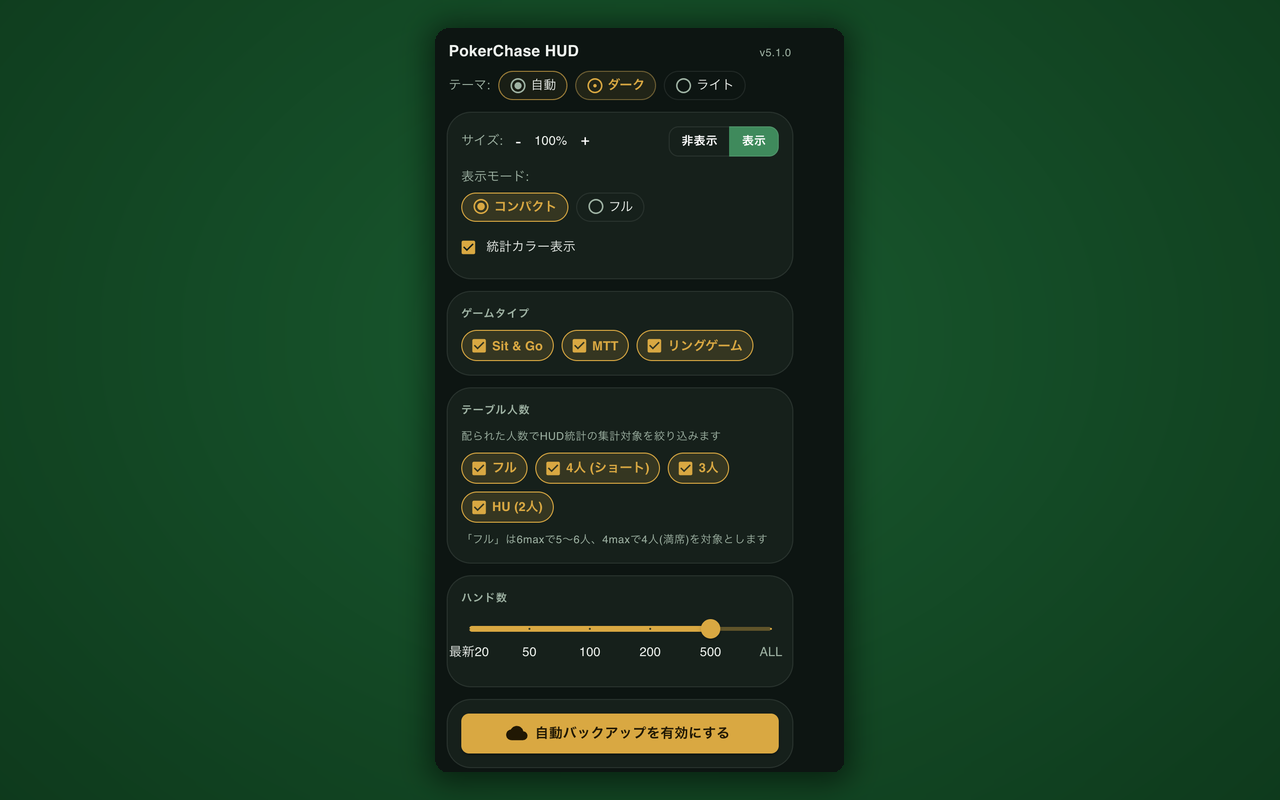
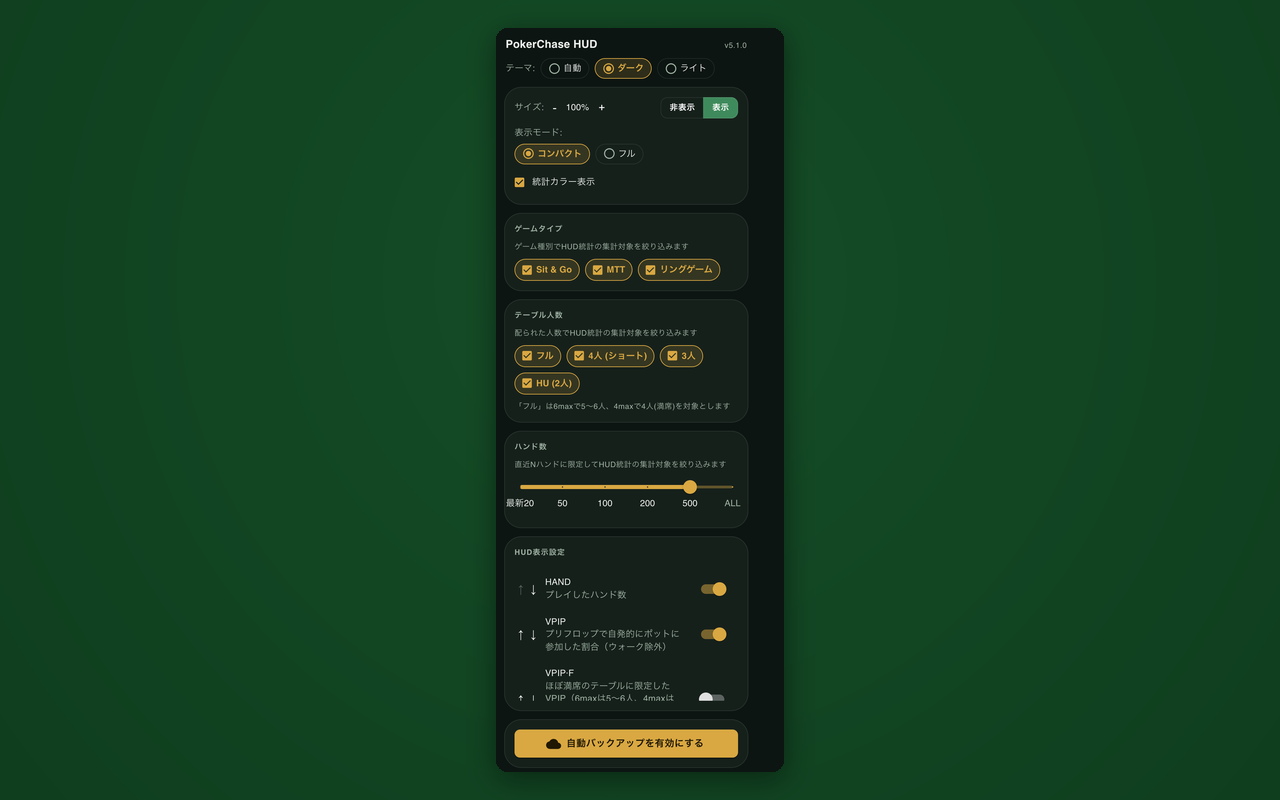
fix(popup): explicit filter captions, intuitive stat descriptions, section reorder (#149)
- Add a matching one-line caption to ゲームタイプ and ハンド数 (テーブル人数
  already had one), all ending in the same "...HUD統計の集計対象を絞り込みます"
  phrasing, so all three read unambiguously as HUD-stat filters.
- Rewrite vpipF's description (was jargon-soup: "HUD独自指標, opt-in") to
  plainly state what it is and why it exists; align its helpText and drop
  the redundant opt-in callout (visible from the toggle itself). Also strip
  the non-explanatory "、意思決定ベースの変種" clause from wtsdNoAi/wwsfNoAi's
  descriptions so they read symmetrically with their wtsd/wwsf siblings.
  Use テーブル (not 卓) throughout.
- Swap Popup.tsx section order: HUD表示設定 (StatisticsConfigSection) now
  renders before クラウド同期/自動バックアップ (FirebaseAuthSection) -- pure
  JSX reorder, no state/logic coupling.
- Regenerate docs/store-assets/store-3-popup-dark.png and
  store-4-popup-light.png to reflect the new captions/order.
- e2e/tools/capture-popup-themes.ts: fix an intermittent truncated
  `fullPage` screenshot (compositor keepalive wiped by reload(), only
  caught by a height-verify+retry loop -- see e2e/README.md "Flaky bits").

Pull request: fix(popup): explicit filter captions, intuitive stat descriptions, section reorder
## Summary

Three popup refinements from sola's review of the shipped redesign (#145):

- **Filters made explicit**: ゲームタイプ and ハンド数 now carry the same one-line caption treatment テーブル人数 already had, with a uniform closing phrase — 「ゲーム種別でHUD統計の集計対象を絞り込みます」 / 「直近Nハンドに限定してHUD統計の集計対象を絞り込みます」.
- **Stat description copy**: VPIP·F rewritten from jargon (「フルテーブル層(6max≥5人 / 4max=4人)に限定したVPIP(ウォーク除外, HUD独自指標, opt-in)」) to plain language — 「ほぼ満席のテーブルに限定したVPIP(6maxは5〜6人、4maxは満席)。少人数テーブルほどVPIPが自然に上がる歪みを除きます」 — with helpText aligned. WTSDa/WWSFa trimmed of the 「意思決定ベースの変種」 tail for symmetry with WTSD/WWSF. All other descriptions audited and already consistent.
- **Section order**: HUD表示設定 now precedes クラウド同期 (pure JSX move).
- **Store assets**: `store-3-popup-dark.png` / `store-4-popup-light.png` regenerated (1280×800, same composition technique as #147) to reflect the new order and captions.
- **Harness robustness (found while capturing)**: `reload()` wiped the #148 compositor keepalive, intermittently truncating fullPage popup captures to viewport height (~50% repro). `ensureCompositorKeepalive` is now exported and re-applied post-reload, with an IHDR-height-verify+retry in the capture tool; documented under e2e/README.md "Flaky bits". Deterministic across repeated runs after the fix.

## Verification

- 748/748 tests ×2 (updated the two tests hardcoding the old vpipF helpText); typecheck clean; smoke 6/6.
[…]

Changed region(s): [[0.3125, 0.0312, 0.6562, 0.9688], [0.5312, 0.7188, 0.5625, 0.75]]

diff --git a/e2e/tools/capture-popup-themes.ts b/e2e/tools/capture-popup-themes.ts
@@ -23,8 +23,9 @@
  * works on any checkout instead of only the workstation that authored this
  * script.
  */
-import { mkdirSync } from 'node:fs'
-import { launchHarness } from '../harness.ts'
+import { mkdirSync, writeFileSync } from 'node:fs'
+import { ensureCompositorKeepalive, launchHarness } from '../harness.ts'
+import type { Page } from 'puppeteer-core'
 
 const OUT_DIR = process.argv[2] ?? new URL('../out/popup-themes/', import.meta.url).pathname
 mkdirSync(OUT_DIR, { recursive: true })
@@ -40,6 +41,37 @@ const openPopupWithRetry = async (h: Awaited<ReturnType<typeof launchHarness>>) 
     }
   }
   throw lastErr
+}
+
+/** Reads a PNG buffer's pixel height straight out of its IHDR chunk (bytes 20-23, big-endian). Avoids pulling in an image-decoding dependency just to sanity-check a screenshot. */
+const pngHeight = (buf: Uint8Array): number =>
+  (buf[20]! << 24) | (buf[21]! << 16) | (buf[22]! << 8) | buf[23]!
+
+/**
+ * `page.screenshot({ fullPage: true })` on this popup page has been observed
+ * to intermittently return a frame sized to the *viewport* (900 CSS px tall)
+ * instead of the full scrollable content (~1350px+) -- same symptom as the
+ * documented compositor-stall class of flakiness (e2e/README.md "Flaky
+ * bits"), just manifesting as a truncated frame instead of a hung capture.
+ * Re-asserting the keepalive alone did not make it fully deterministic in
+ * testing, so this additionally verifies the captured PNG's actual height
+ * against the page's real content height (via CDP `Page.getLayoutMetrics`)
+ * and retries (fresh keepalive re-assert + short wait) until they agree.
+ */
+const screenshotFullPageWithRetry = async (page: Page, maxAttempts = 5): Promise<Uint8Array> => {
+  for (let attempt = 1; attempt <= maxAttempts; attempt++) {
+    await ensureCompositorKeepalive(page)
+    const metrics = await (page as any)._client().send('Page.getLayoutMetrics')
+    const expectedHeightPx = Math.round(metrics.cssContentSize.height * (page.viewport()?.deviceScaleFactor ?? 1))
+    const buf = await page.screenshot({ fullPage: true })
+    const actualHeightPx = pngHeight(buf as Uint8Array)
+    // Small tolerance for rounding; a truncated capture is off by hundreds
+    // of px (an entire section's worth), not a rounding error.
+    if (actualHeightPx >= expectedHeightPx - 4) return buf as Uint8Array
+    console.log(`[capture] retry ${attempt}/${maxAttempts}: screenshot height ${actualHeightPx}px < expected ${expectedHeightPx}px (stale/truncated compositor frame)`)
+    await new Promise((r) => setTimeout(r, 300))
+  }
+  throw new Error(`screenshotFullPageWithRetry: gave up after ${maxAttempts} attempts`)
 }
 
 const capture = async (mode: 'dark' | 'light', label: string) => {
@@ -58,9 +90,12 @@ const capture = async (mode: 'dark' | 'light', label: string) => {
     )
     await popupPage.setViewport({ width: 420, height: 900, deviceScaleFactor: 2 })
     await popupPage.reload({ waitUntil: 'networkidle0' })
-    // Give MUI a beat to finish its first paint/transition-free render.
+    // reload() wipes the anti-stall keepalive that openPopup() injected
+    // pre-reload -- screenshotFullPageWithRetry re-asserts it itself, but
+    // give MUI a beat first to finish its first paint/transition-free render.
     await new Promise((r) => setTimeout(r, 300))
-    await popupPage.screenshot({ path: `${OUT_DIR}/${label}-full.png` as `${string}.png`, fullPage: true })
+    const buf = await screenshotFullPageWithRetry(popupPage)
+    writeFileSync(`${OUT_DIR}/${label}-full.png`, buf)
     console.log(`[capture] wrote ${OUT_DIR}/${label}-full.png`)
   } finally {
     await h.close()

diff --git a/src/components/Popup.tsx b/src/components/Popup.tsx
@@ -476,7 +476,24 @@ const Popup = ({ initialPopupThemeMode }: PopupProps = {}) => {
         />
       </SectionCard>
 
-      {/* Cloud Backup - ハンド数とHUD表示設定の間 */}
+      {/*
+        HUD表示設定（統計の有効/無効・並び順）→ クラウド同期（自動バックアップ）
+        の順（sola要件, 2026-07 popup polish）: 統計フィルタ3セクションの直後に
+        「その統計をどう表示するか」を置き、「その設定をどうバックアップするか」
+        は最後に回す方が読む順として自然、との指摘に対応。状態やロジックの結合は
+        無く、単なるJSX順序の入れ替え。
+      */}
+      <SectionCard>
+        <StatisticsConfigSection
+          pendingStatDisplayConfigs={pendingStatDisplayConfigs}
+          hasUnsavedStatChanges={hasUnsavedStatChanges}
+          handleStatToggle={handleStatToggle}
+          handleStatOrderChange={handleStatOrderChange}
+          handleApplyStatChanges={handleApplyStatChanges}
+          handleResetStatChanges={handleResetStatChanges}
+        />
+      </SectionCard>
+
       <SectionCard>
         <FirebaseAuthSection
           isFirebaseSignedIn={isFirebaseSignedIn}
@@ -487,17 +504,6 @@ const Popup = ({ initialPopupThemeMode }: PopupProps = {}) => {
           handleFirebaseSignOut={handleFirebaseSignOut}
           handleManualSyncUpload={handleManualSyncUpload}
           handleManualSyncDownload={handleManualSyncDownload}
-        />
-      </SectionCard>
-
-      <SectionCard>
-        <StatisticsConfigSection
-          pendingStatDisplayConfigs={pendingStatDisplayConfigs}
-          hasUnsavedStatChanges={hasUnsavedStatChanges}
-          handleStatToggle={handleStatToggle}
-          handleStatOrderChange={handleStatOrderChange}
-          handleApplyStatChanges={handleApplyStatChanges}
-          handleResetStatChanges={handleResetStatChanges}
         />
       </SectionCard>
 

diff --git a/e2e/harness.ts b/e2e/harness.ts
@@ -104,10 +104,19 @@ const findGamePage = async (browser: Browser, fixtureOrigin: string): Promise<Pa
  * before each `screenshot()` so it self-heals across page reloads and
  * `attachHarness` sessions started by an older build. See e2e/README.md
  * "Flaky bits".
+ *
+ * Exported (not just used internally) because a `reload()` wipes the
+ * injected style/div -- any caller that reloads a harness-owned page and
+ * then screenshots it directly (bypassing `screenshot()`'s own re-assert,
+ * e.g. `e2e/tools/capture-popup-themes.ts`, which needs `fullPage: true`
+ * that `screenshot()` doesn't support) must re-call this after the reload
+ * or risk a stale/truncated `fullPage` capture -- observed in practice as
+ * a `fullPage` screenshot silently sized to the viewport instead of the
+ * full scrollHeight, not just the documented hang.
  */
 const COMPOSITOR_KEEPALIVE_ID = '__e2e-compositor-keepalive'
 
-const ensureCompositorKeepalive = async (page: Page): Promise<void> => {
+export const ensureCompositorKeepalive = async (page: Page): Promise<void> => {
   await page.evaluate((id: string) => {
     if (document.getElementById(id)) return
     const style = document.createElement('style')

diff --git a/src/components/popup/GameTypeFilterSection.tsx b/src/components/popup/GameTypeFilterSection.tsx
@@ -1,4 +1,5 @@
 import Box from '@mui/material/Box'
+import Typography from '@mui/material/Typography'
 import type { GameTypeFilter } from '../../types'
 import { SectionHeading } from './SectionHeading'
 import { ToggleChip } from './ToggleChip'
@@ -15,6 +16,15 @@ export const GameTypeFilterSection = ({
   return (
     <>
       <SectionHeading>ゲームタイプ</SectionHeading>
+      {/*
+        テーブル人数/ハンド数と並ぶ3つのHUD統計フィルタの1つであることを
+        明示する常時表示キャプション。「これはフィルタだ」と気づけない、
+        との指摘(sola, PR #145レビュー)への対応。他2セクションのキャプションと
+        文末（HUD統計の集計対象を絞り込みます）を揃えて統一感を出す。
+      */}
+      <Typography variant="caption" sx={{ display: 'block', color: 'text.secondary', mb: 1 }}>
+        ゲーム種別でHUD統計の集計対象を絞り込みます
+      </Typography>
       <Box sx={{ display: 'flex', flexWrap: 'wrap', gap: 1 }}>
         <ToggleChip
           checked={gameTypeFilter.sng}

diff --git a/src/stats/core/vpip-full.ts b/src/stats/core/vpip-full.ts
@@ -117,8 +117,14 @@ function formatLayerBreakdown(playerId: number, actions: Action[], hands: Hand[]
 export const vpipFullStat: StatDefinition = {
   id: 'vpipF',
   name: 'VPIP·F',
-  description: 'フルテーブル層（6max≥5人 / 4max=4人）に限定したVPIP（ウォーク除外, HUD独自指標, opt-in）',
-  helpText: '全員着席した卓に限定したVPIP。卓が縮小するほどVPIPは自然に上がるため、比較しやすいよう絞った指標(HUD独自指標)',
+  // description/helpTextの文言(2026-07, popup polish): 旧説明文
+  // 「フルテーブル層（6max≥5人 / 4max=4人）に限定したVPIP（ウォーク除外,
+  // HUD独自指標, opt-in）」はsolaレビューで「直感的でない」と指摘された
+  // (opt-inかどうかはトグル自体で分かるため説明文に書く情報ではない)。
+  // vpip.ts描写の文体（〜割合、パレン内は除外条件のみ）に合わせつつ、
+  // このスタッツ固有の「なぜ存在するか」を平易に書く。
+  description: 'ほぼ満席のテーブルに限定したVPIP（6maxは5〜6人、4maxは満席）。少人数テーブルほどVPIPが自然に上がる歪みを除きます',
+  helpText: '全員着席したテーブルに限定したVPIP。テーブルが縮小するほどVPIPは自然に上がるため、比較しやすいよう絞った指標',
   enabled: false,
   calculate: ({ playerId, actions, hands }) => {
     const { full } = groupHandsByLayer(hands)

diff --git a/src/components/popup/HandLimitSection.tsx b/src/components/popup/HandLimitSection.tsx
@@ -1,5 +1,6 @@
 import Box from '@mui/material/Box'
 import Slider from '@mui/material/Slider'
+import Typography from '@mui/material/Typography'
 import { SectionHeading } from './SectionHeading'
 
 interface HandLimitSectionProps {
@@ -14,6 +15,10 @@ export const HandLimitSection = ({
   return (
     <>
       <SectionHeading>ハンド数</SectionHeading>
+      {/* ゲームタイプ/テーブル人数と同じ理由・同じ文末で「これもフィルタだ」を明示する */}
+      <Typography variant="caption" sx={{ display: 'block', color: 'text.secondary', mb: 1 }}>
+        直近Nハンドに限定してHUD統計の集計対象を絞り込みます
+      </Typography>
       <Box sx={{ px: 1, mt: 1, mb: 0.5 }}>
         <Slider
           value={(() => {

diff --git a/src/stats/core/wtsd-no-ai.ts b/src/stats/core/wtsd-no-ai.ts
@@ -26,7 +26,10 @@ import { formatPercentage } from '../utils'
 export const wtsdNoAiStat: StatDefinition = {
   id: 'wtsdNoAi',
   name: 'WTSDa',
-  description: 'ショーダウン率（プリフロップオールイン除外、意思決定ベースの変種）',
+  // wtsd.ts側の記法「ショーダウン率（フロップ以降、プリフロップオールイン含む）」
+  // と対で読めるよう、括弧内は除外条件のみに揃える(旧文言の「意思決定ベースの
+  // 変種」は説明にならない専門用語だったため削除。由来は上のdocblock参照)。
+  description: 'ショーダウン率（プリフロップオールイン除外）',
   helpText: 'フロップを見た後にショーダウンまで進んだ割合(プリフロップオールイン除外)',
   enabled: false,
   calculate: ({ actions, phases }) => {

diff --git a/src/stats/core/wwsf-no-ai.ts b/src/stats/core/wwsf-no-ai.ts
@@ -18,7 +18,9 @@ import { formatPercentage } from '../utils'
 export const wwsfNoAiStat: StatDefinition = {
   id: 'wwsfNoAi',
   name: 'WWSFa',
-  description: 'フロップ以降の勝率（プリフロップオールイン除外、意思決定ベースの変種）',
+  // wwsf.ts側の記法「フロップ以降の勝率（プリフロップオールイン含む）」と
+  // 対で読めるよう、括弧内は除外条件のみに揃える(理由はwtsd-no-ai.ts参照)。
+  description: 'フロップ以降の勝率（プリフロップオールイン除外）',
   helpText: 'フロップを見た後に勝った割合(プリフロップオールイン除外)',
   enabled: false,
   calculate: ({ actions, winningHandIds }) => {

diff --git a/src/components/hud/StatDisplay.test.tsx b/src/components/hud/StatDisplay.test.tsx
@@ -153,7 +153,7 @@ describe('StatDisplay', () => {
 
       render(<StatDisplay displayStats={stats} formatValue={mockFormatValue} />)
 
-      const expectedTitle = `${dynamicTooltip}\n全員着席した卓に限定したVPIP。卓が縮小するほどVPIPは自然に上がるため、比較しやすいよう絞った指標(HUD独自指標)`
+      const expectedTitle = `${dynamicTooltip}\n全員着席したテーブルに限定したVPIP。テーブルが縮小するほどVPIPは自然に上がるため、比較しやすいよう絞った指標`
       expect(screen.getByText('35.2% (n=1252)')).toHaveAttribute('title', expectedTitle)
     })
   })

diff --git a/src/components/hud/statTooltip.test.ts b/src/components/hud/statTooltip.test.ts
@@ -14,7 +14,7 @@ describe('composeStatTitle', () => {
     const title = composeStatTitle('vpipF', 'VPIP·F', '35.2% (n=1252)', dynamicTooltip)
     expect(title).toBe(
       'VPIP·F 35.2% (n=1252) | 4p 47.0% (n=279) | 3p 56.1% (n=221) | HU 71.9% (n=146)\n' +
-      '全員着席した卓に限定したVPIP。卓が縮小するほどVPIPは自然に上がるため、比較しやすいよう絞った指標(HUD独自指標)'
+      '全員着席したテーブルに限定したVPIP。テーブルが縮小するほどVPIPは自然に上がるため、比較しやすいよう絞った指標'
     )
   })
 

diff --git a/src/components/popup/TableSizeFilterSection.tsx b/src/components/popup/TableSizeFilterSection.tsx
@@ -46,7 +46,7 @@ export const TableSizeFilterSection = ({
         />
       </Box>
       {/*
-        「フル」の定義は卓サイズに依存する(classifyTableSizeLayer, table-size.ts):
+        「フル」の定義はテーブルサイズに依存する(classifyTableSizeLayer, table-size.ts):
         6maxは5〜6人、4maxは4人(満席)。1チップの可視ラベルだけでこの分岐を
         表現すると長すぎるかホバー頼みになるため、ここに常時表示のキャプション
         として明記する(sola要件: 正しいこと AND 推測なしで発見できること)。

diff --git a/e2e/README.md b/e2e/README.md
@@ -264,6 +264,22 @@ and DOM dump on any failure. Checks:
   pre-screenshot re-assert self-heals page reloads and sessions started by
   an older build. Discovered and verified live 2026-07-20 during a
   README/store screenshot session.
+- **Same compositor issue, different symptom -- silently truncated
+  `fullPage` screenshots**: `e2e/tools/capture-popup-themes.ts` seeds
+  `chrome.storage.sync` then calls `popupPage.reload()` before
+  screenshotting, and `reload()` wipes the keepalive element injected at
+  `openPopup()` time (fresh document). Without a fresh re-assert *after* the
+  reload, `page.screenshot({ fullPage: true })` on the reloaded page
+  intermittently (not every run) captures a frame sized to the *viewport*
+  instead of the full scrollable content height -- `Page.getLayoutMetrics`
+  reports the correct full content height throughout, so this isn't a
+  layout bug, just a stale/short compositor frame. Fix (2026-07 popup-polish
+  session): re-assert `ensureCompositorKeepalive` (now exported from
+  `harness.ts`) right after the reload, *and* verify the captured PNG's
+  actual height (read straight from its IHDR chunk, no image-decoding
+  dependency needed) against the expected content height before accepting
+  it, retrying a few times if they disagree -- the re-assert alone was not
+  reliably sufficient in testing, only the verify+retry loop was.
 - The `document_idle` WebSocket-patch race described above -- mitigated
   with a bounded poll on an observable effect (`window.WebSocket` no
   longer being native code), not a fixed sleep.